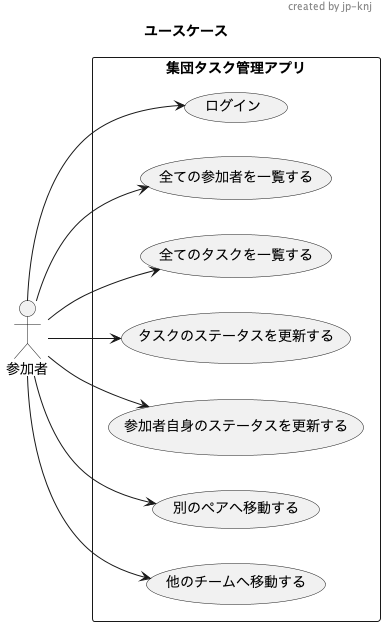
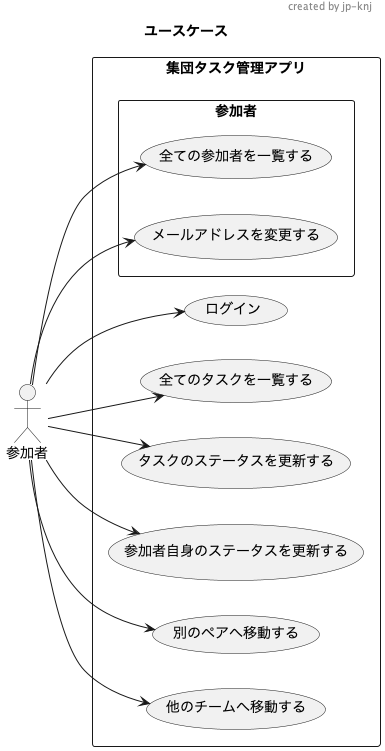
:sparkles: follow usecase update email

diff --git a/backend/src/usecase/member/member.usecase.ts b/backend/src/usecase/member/member.usecase.ts
@@ -2,17 +2,19 @@ import { Injectable } from '@nestjs/common';
 import { MembersRepository} from "../../infrastructure/database/members.repository";
 import { Member } from '../../domain/member/member';
 import { MemberDTO } from "./member.dto";
+import { MemberId } from "../../domain/member/member-id";
+import { MemberEmail } from "../../domain/member/member-email";
 
 @Injectable()
 export class MembersUsecase {
-  constructor(private readonly MemberRepository: MembersRepository) {}
+  constructor(private readonly memberRepository: MembersRepository) {}
 
   /**
    * 参加者一覧を取得する
    */
   public async getAll(): Promise<MemberDTO[]> {
     try {
-      const members: Member[] = await this.MemberRepository.getAll();
+      const members: Member[] = await this.memberRepository.getAll();
       return members.map(member => {
         return new MemberDTO({
           name: member.name,
@@ -21,6 +23,18 @@ export class MembersUsecase {
           }
         )
       })
+    } catch (error) {
+      throw error;
+    }
+  }
+
+  /**
+   * 参加者のメールアドレスを変更
+   */
+  public async changeEmail(memberId: MemberId, email: string): Promise<any> {
+    try {
+      // TODO: メールアドレスの一意検証
+      // TODO: メールアドレスの保存
     } catch (error) {
       throw error;
     }

diff --git a/backend/src/infrastructure/database/members.repository.ts b/backend/src/infrastructure/database/members.repository.ts
@@ -12,4 +12,20 @@ export class MembersRepository {
       }
     });
   }
+
+  public async findById (id: number): Promise<any> {
+    return await this.prismaClient.member.findUnique({
+      where: {
+        id: id
+      },
+    });
+  }
+
+  public async findByEmail(email: string): Promise<any> {
+    return await this.prismaClient.member.findUnique({
+      where: {
+        email: email
+      }
+    });
+  };
 }
